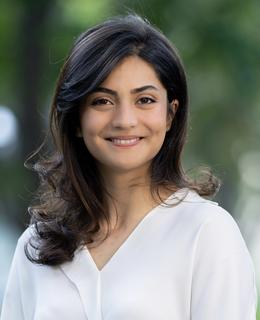
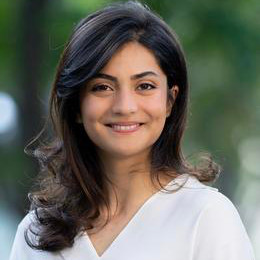
Add Sayeh

diff --git a/_people/sayeh_bayat.md b/_people/sayeh_bayat.md
@@ -1,0 +1,15 @@
+---
+layout: page
+firstname: Sayeh
+lastname: Bayat
+title: Assistant Professor
+department: Department of Biomedical Engineering, Schulich School of Engineering
+img: assets/img/people/sayehbayat.jpg
+redirect: https://www.healthycitylab.ca/
+email: sayeh.bayat@ucalgary.ca
+scholar_userid: 0Xxst2gAAAAJ
+twitter_username: SayehBayat
+linkedin_username: sayehbayat
+category: [Machine Learning, ]
+show: true
+---
